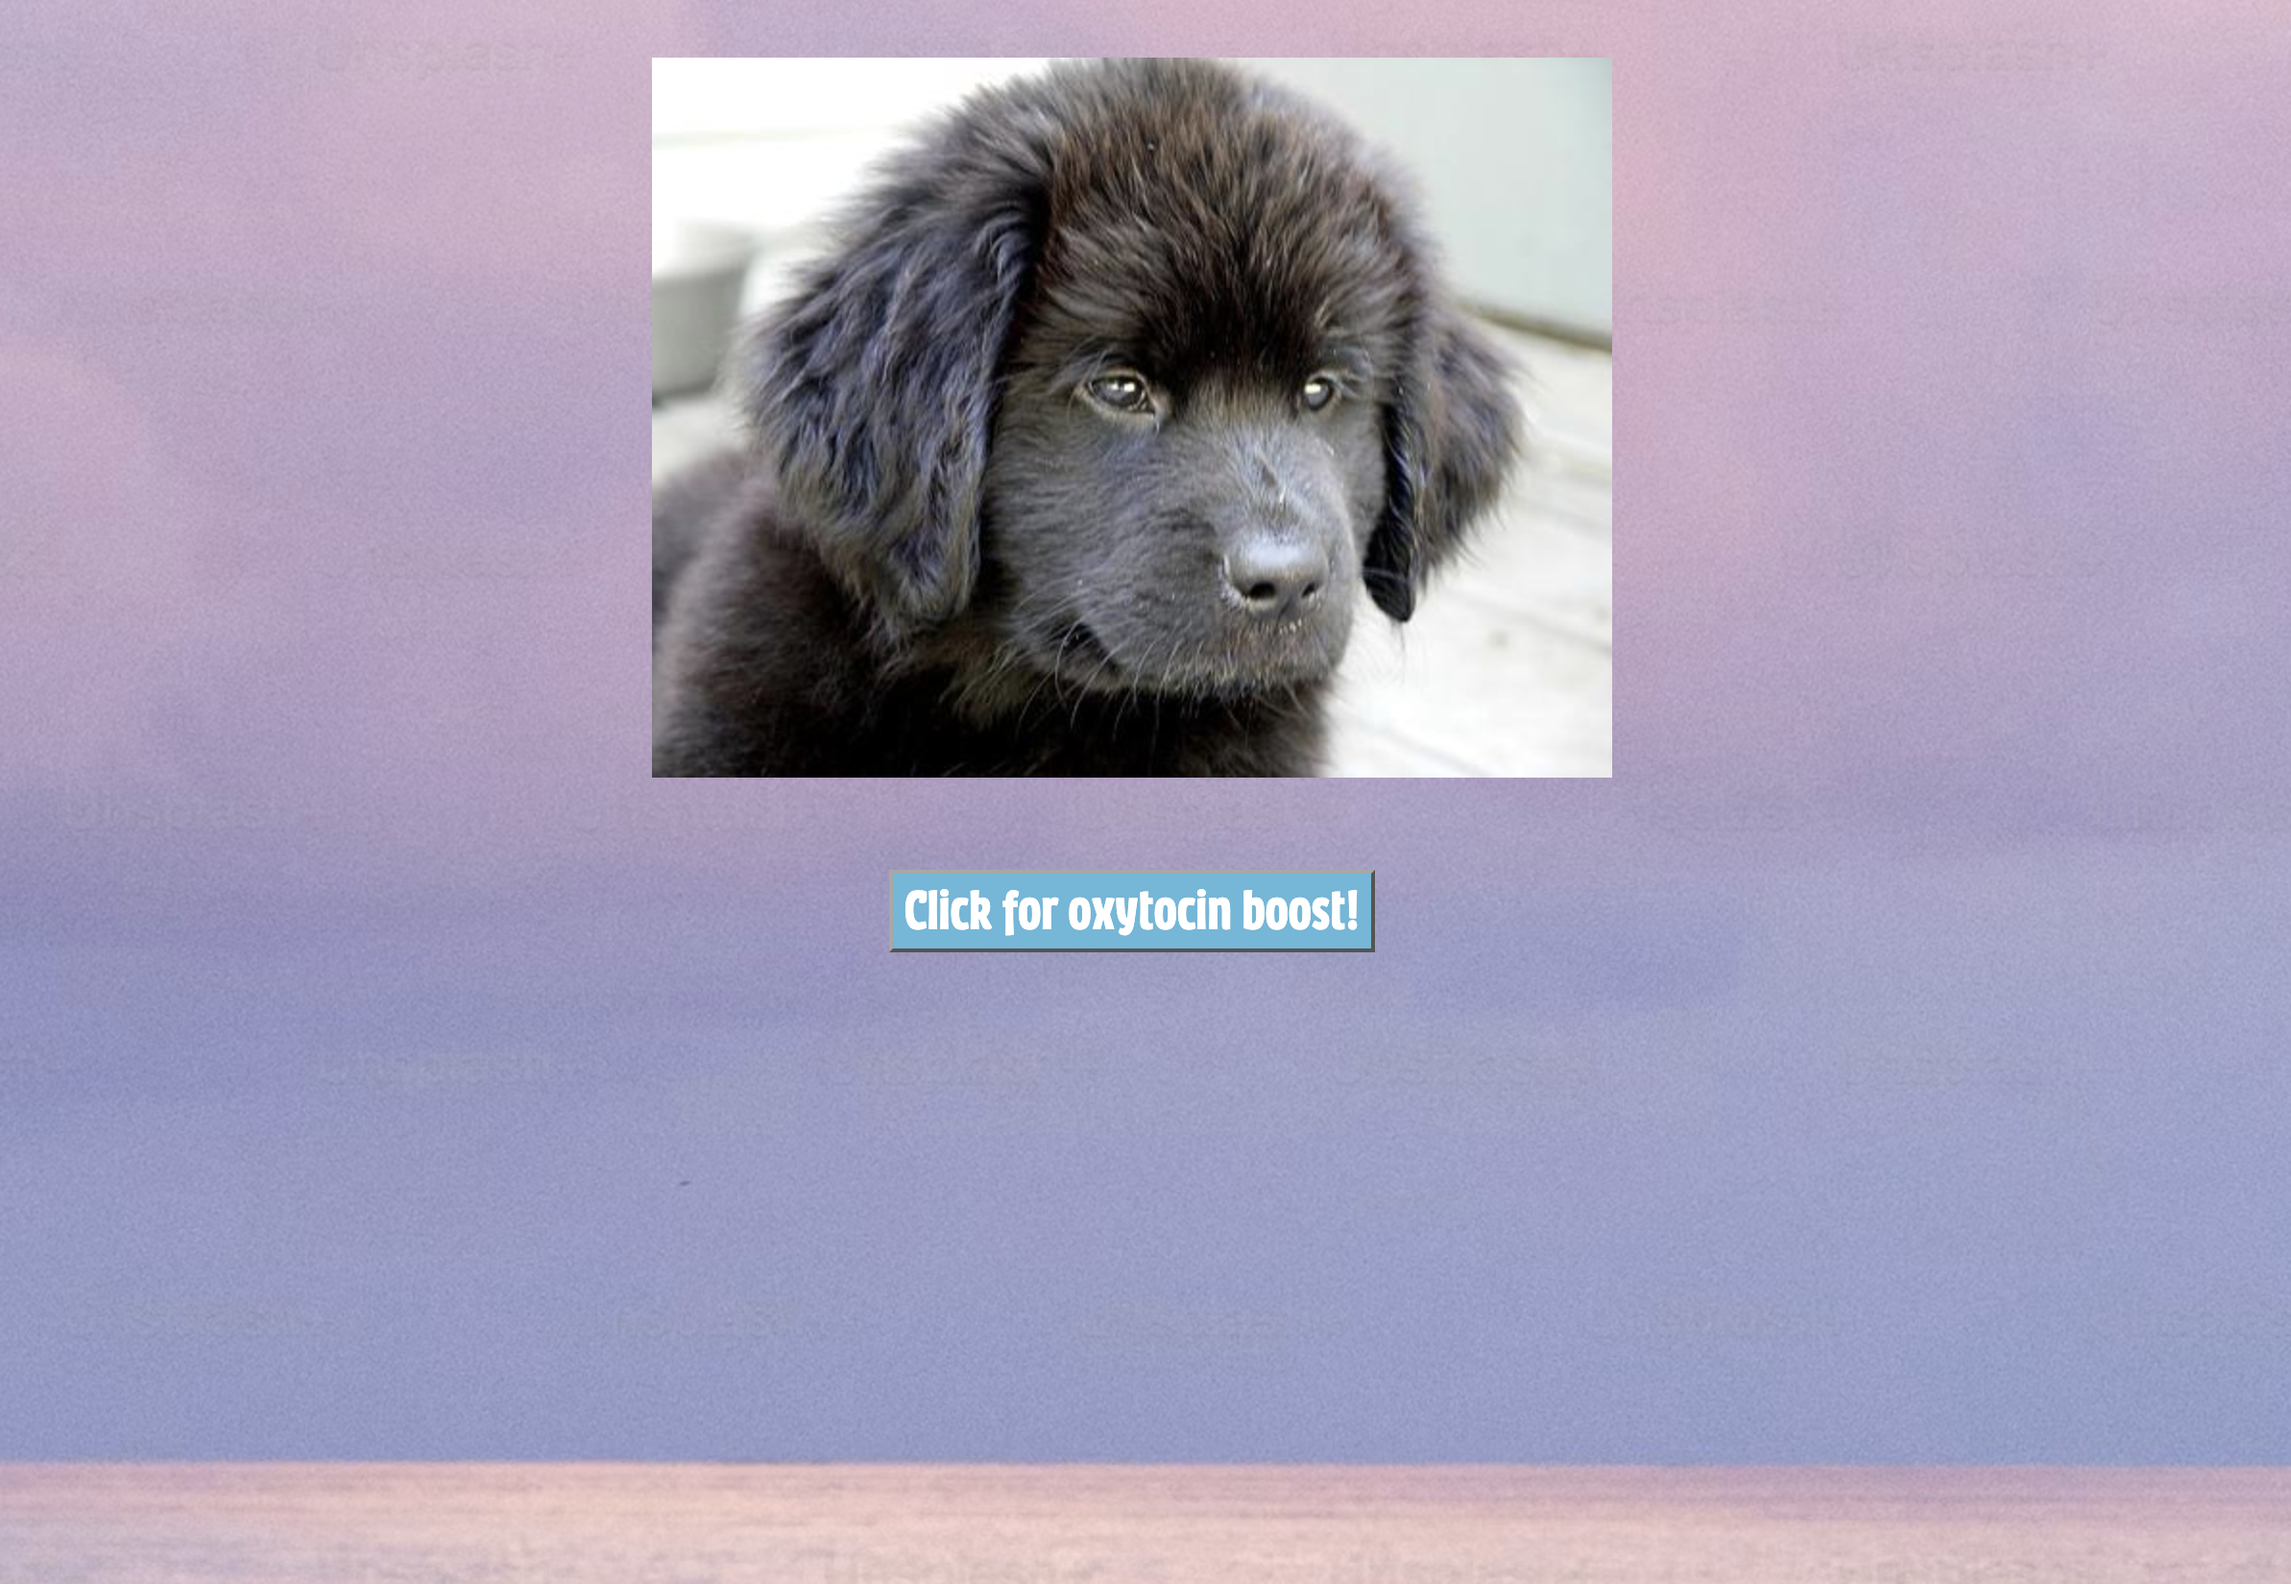
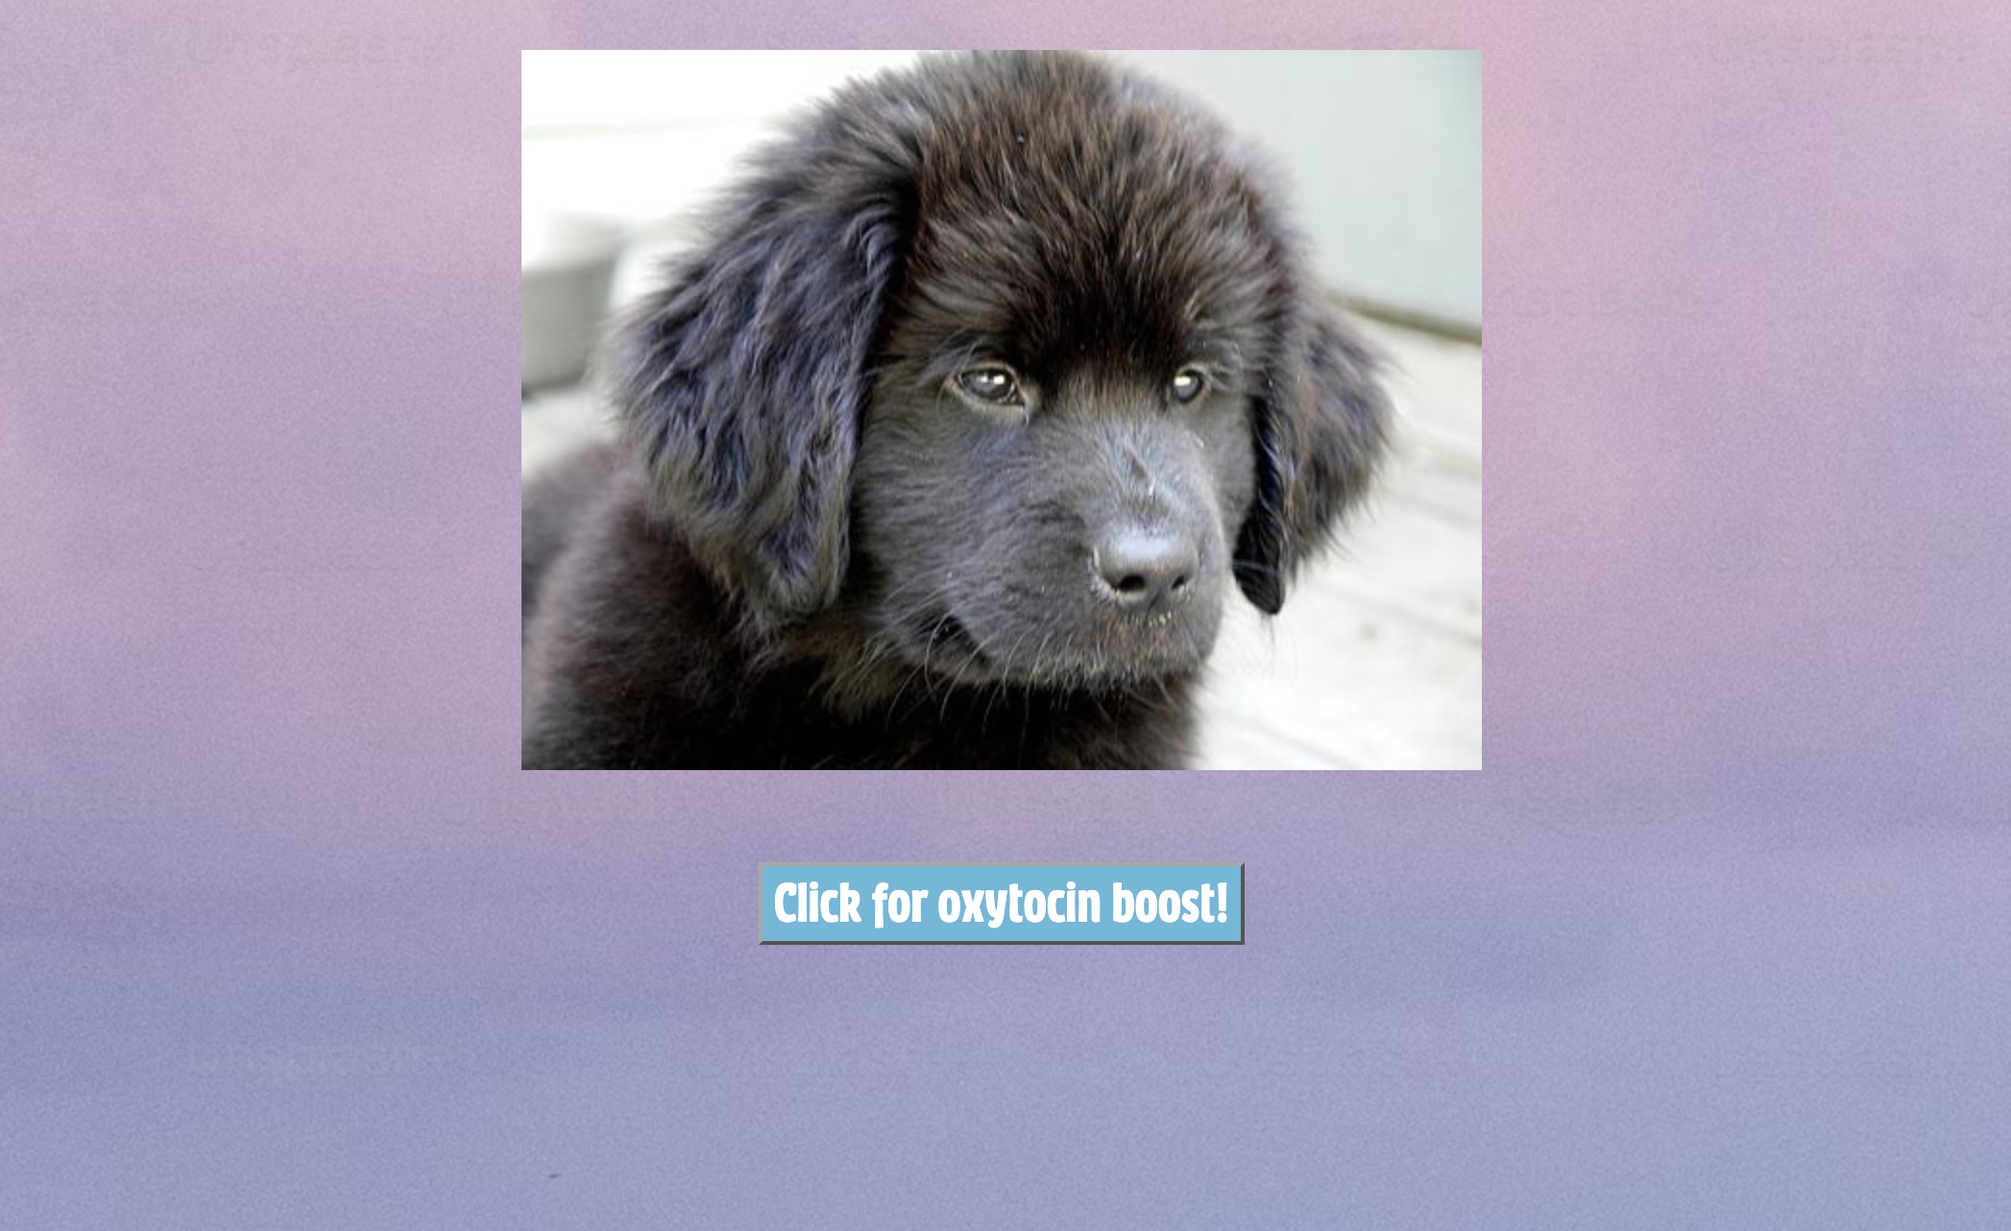
adding more projects to 'work' tab

diff --git a/index.html b/index.html
@@ -32,7 +32,7 @@
 							<article id="home" class="panel intro">
 								<header>
 									<h1>Priscilla Ruilova</h1>
-									<p>Software Engineer | Salsa Dancer | Environmental Justice Advocate</p>
+									<p>Software Engineer | Tech For Good</p>
 								</header>
 								<a href="#work" class="jumplink pic">
 									<span class="arrow icon solid fa-chevron-right"><span>See my work</span></span>
@@ -59,7 +59,7 @@
 										<div class="col-4 col-6-medium col-12-small">
 											<a href="https://nyc-bagels.netlify.app" class="image fit" target="_blank"><img src="images/delanceyBagelFinal.png" alt="Image of front page of bagel website."></a>
 											<section class="projectDescriptionsSection">
-												<h3>Delancey Bagel Shop Website</h3>
+												<h3>Bagel Shop Website</h3>
 												<p class="projectDescriptions">A static site for a small bagel business using floats</p>
 												<section class="listSection">
 													<h4>Tech Stack:</h4>
@@ -94,28 +94,32 @@
 											</section>
 										</div>
 										<div class="col-4 col-6-medium col-12-small">
-											<a href="https://priscilla-ruilova.github.io/Tic-Tac-Toe/" class="image fit" target="_blank"><img src="images/ticTacToe.png" alt="image of a tic tac toe game that is 'Avatar the Last Airbender'-themed"></a>
+											<a href="https://priscilla-ruilova.github.io/Heat-Index-App/" class="image fit" target="_blank"><img src="images/screenshot-heat-index.png" alt="image of heat index web app with simple styling using orange and beige colors and a backdorp of construction workers"></a>
 											<section class="projectDescriptionsSection">
-												<h3>Tic-Tac-Toe Game</h3>
-												<p class="projectDescriptions">An Avatar the Last Airbender-themed tic tac toe game</p>
+												<h3>Heat Index App</h3>
+												<p class="projectDescriptions">A web app for outdoor worker heat safety</p>
 												<section class="listSection">
 													<h4>Tech Stack:</h4>
 													<span class = "html">HTML</span>
 													<span class = "css">CSS</span>
 													<span class = "js">JavaScript</span>
+													<span class = "apis">Web APIs</span>
 												</section>
 											</section>
 										</div>
 										<div class="col-4 col-6-medium col-12-small">
-											<a href="https://priscilla-ruilova.github.io/matching-card-game/" class="image fit" target="_blank"><img src="images/screenshotCardMatching.png" alt="image of a Nickelodeon card matching game mid-play"></a>
+											<a href="https://poetry-collage.onrender.com/" class="image fit" target="_blank"><img src="images/screenshot-poetry-collage.png" alt="screenshot of a web app that randomizes lines of poetry from users"></a>
 											<section class="projectDescriptionsSection">
-												<h3>Card Matching Game</h3>
-											<p class="projectDescriptions">A throwback Nickelodeon-themed card matching game</p>
-											<section class="listSection">
-												<h4>Tech Stack:</h4>
-												<span class = "html">HTML</span>
-												<span class = "css">CSS</span>
-												<span class = "js">JavaScript</span>
+												<h3>Poetry Collage</h3>
+												<p class="projectDescriptions">A poetry line shuffle app for virtual collage poetry</p>
+												<section class="listSection">
+													<h4>Tech Stack:</h4>
+													<span class = "html">HTML</span>
+													<span class = "css">CSS</span>
+													<span class = "js">JavaScript</span>
+													<span class = "node">Node.js</span>
+													<span class = "express">Express</span>
+													<span class = "mongodb">MongoDB</span>
 												</section>
 											</section>
 										</div>
@@ -123,26 +127,71 @@
 											<a href="https://priscilla-ruilova.github.io/DotI-App/" class="image fit" target="_blank"><img src="images/dogsOfInternet.png" alt=" image of a webpage with a button saying to 'click for oxytocin boost' and a photo of a cute dog"></a>
 											<section class="projectDescriptionsSection">
 												<h3>Dog Photo API Project</h3>
-												<p class="projectDescriptions">Site built with API showing dog photos upon clicking</p>
+												<p class="projectDescriptions">Virtual oxytocin boost via dog photos on click using Web APIs</p>
 												<section class="listSection">
 													<h4>Tech Stack:</h4>
 													<span class = "html">HTML</span>
 													<span class = "css">CSS</span>
 													<span class = "js">JavaScript</span>
+													<span class = "api">Web API</span>
 												</section>
 											</section>
-											
+										</div>
+										<div class="col-4 col-6-medium col-12-small">
+											<a href="https://toolshare-q1hy.onrender.com/" class="image fit" target="_blank"><img src="images/screenshot-tool-share.png" alt="screenshot of tool lending library website"></a>
+											<section class="projectDescriptionsSection">
+												<h3>Tool Share</h3>
+												<p class="projectDescriptions">An online tool lending library designed for neighborhood use</p>
+												<section class="listSection">
+													<h4>Tech Stack:</h4>
+													<span class = "html">HTML</span>
+													<span class = "css">CSS</span>
+													<span class = "js">JavaScript</span>
+													<span class = "node">Node.js</span>
+													<span class = "express">Express</span>
+													<span class = "MongoDB">MongoDB</span>
+													<span class = "passport">Passport.js</span>
+													<span class = "bcrypt">bcrypt</span>
+												</section>
+											</section>
+										</div>
+										<div class="col-4 col-6-medium col-12-small">
+											<a href="https://shelflife-0se8.onrender.com/" class="image fit" target="_blank"><img src="images/screenshot-shelf-life.png" alt="screenshot of fridge food item tracker communal living"></a>
+											<section class="projectDescriptionsSection">
+												<h3>Shelf Life</h3>
+												<p class="projectDescriptions">An online fridge item tracker for folks in communal living environments</p>
+												<section class="listSection">
+													<h4>Tech Stack:</h4>
+													<span class = "html">HTML</span>
+													<span class = "css">CSS</span>
+													<span class = "js">JavaScript</span>
+													<span class = "node">Node.js</span>
+													<span class = "express">Express</span>
+													<span class = "MongoDB">MongoDB</span>
+													<span class = "passport">Passport.js</span>
+													<span class = "bcrypt">bcrypt</span>
+												</section>
+											</section>
+										</div>
+										<div class="col-4 col-6-medium col-12-small">
+											<a href="https://common-ground-q46x.onrender.com/" class="image fit" target="_blank"><img src="images/screenshot-common-ground.png" alt="screenshot of login page for urban farming app"></a>
+											<section class="projectDescriptionsSection">
+												<h3>Common Ground</h3>
+												<p class="projectDescriptions">A work-in-progress web app for urban farmers to track land security, share and view resources, and connect</p>
+												<section class="listSection">
+													<h4>Tech Stack:</h4>
+													<span class = "html">HTML</span>
+													<span class = "css">CSS</span>
+													<span class = "js">JavaScript</span>
+													<span class = "node">Node.js</span>
+													<span class = "express">Express</span>
+													<span class = "MongoDB">MongoDB</span>
+													<span class = "passport">Passport.js</span>
+													<span class = "bcrypt">bcrypt</span>
+												</section>
+											</section>
 										</div>
 										<!--
-										<div class="col-4 col-6-medium col-12-small">
-											<a href="#" class="image fit"><img src="images/pic07.jpg" alt=""></a>
-										</div>
-										<div class="col-4 col-6-medium col-12-small">
-											<a href="#" class="image fit"><img src="images/pic08.jpg" alt=""></a>
-										</div>
-										<div class="col-4 col-6-medium col-12-small">
-											<a href="#" class="image fit"><img src="images/pic09.jpg" alt=""></a>
-										</div>
 										<div class="col-4 col-6-medium col-12-small">
 											<a href="#" class="image fit"><img src="images/pic10.jpg" alt=""></a>
 										</div>

diff --git a/assets/css/main.css b/assets/css/main.css
@@ -1447,19 +1447,27 @@ PRISCILLA CODE TABLES
 	margin-top: 2rem;
 }
 .projectDescriptionsSection > h3{
-	color: rgb(172, 134, 105)
+	color: rgb(134, 100, 74);
+	font-size: 1.5rem;
+	font-weight: bold;
 }
 .projectDescriptionsSection > p, h4, span{
 	font-size: 0.8em;
 }
-.listSection{
+/* .listSection{
 	display: flex;
 	flex-direction: row;
-	gap: 0.7rem;
-	text-wrap: wrap;
+	gap: 0.7rem; 
+} */
+.listSection > h4{
+	display: inline;
+	font-weight: bold;
+	/* margin-left: 1rem; */
 }
 .listSection > span{
+	display: inline;
 	font-weight: bold;
+	margin-left: 0.5rem;
 }
 
 /* Table */
@@ -1593,6 +1601,7 @@ article a{
 		.image.fit {
 			display: block;
 			width: 100%;
+			
 		}
 
 		.image.featured {

diff --git a/README.md b/README.md
@@ -1,4 +1,4 @@
-# Welcome to my website! 
+# Welcome to my portfolio website! 
 
 ## This lovely design was created by AJ (aj@lkn.io | @ajlkn) from HTML5 UP for personal use and I had a lot of fun personalizing it to meet my needs and design preferences. 
 
